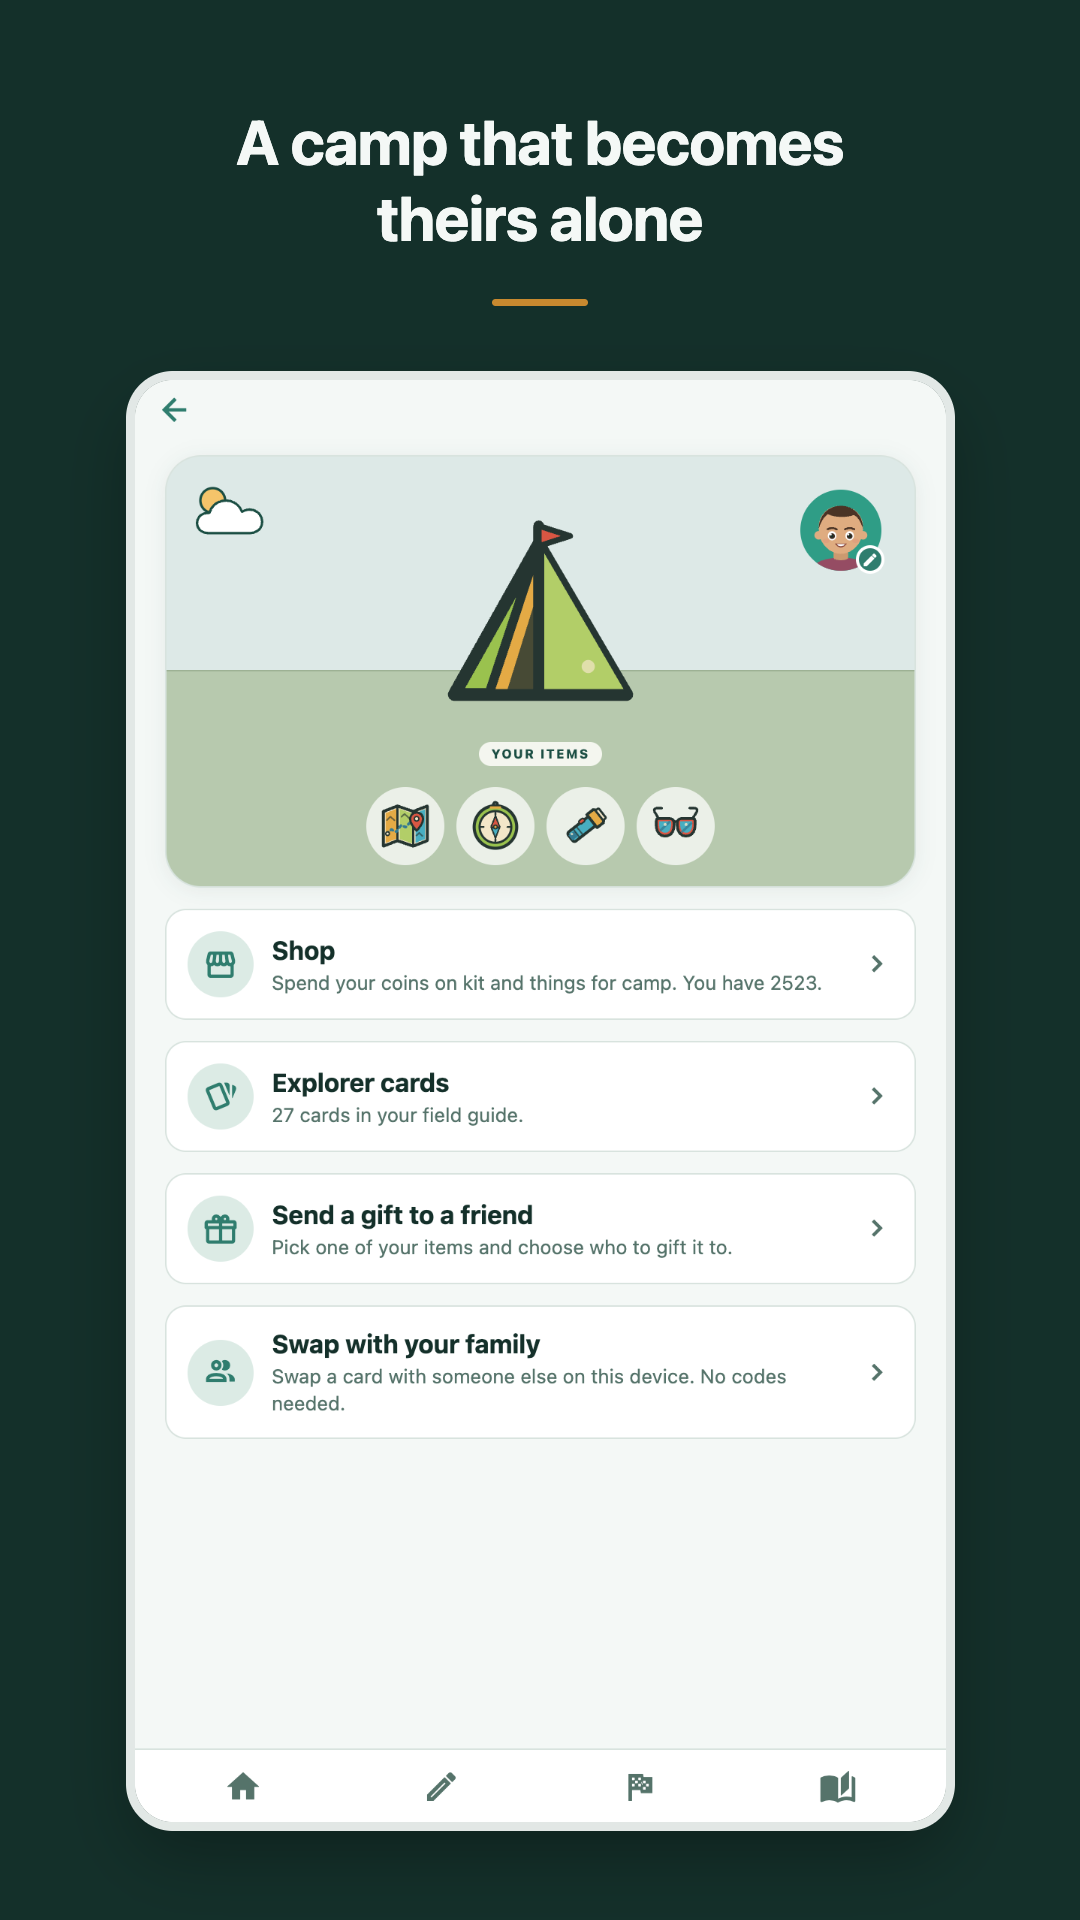
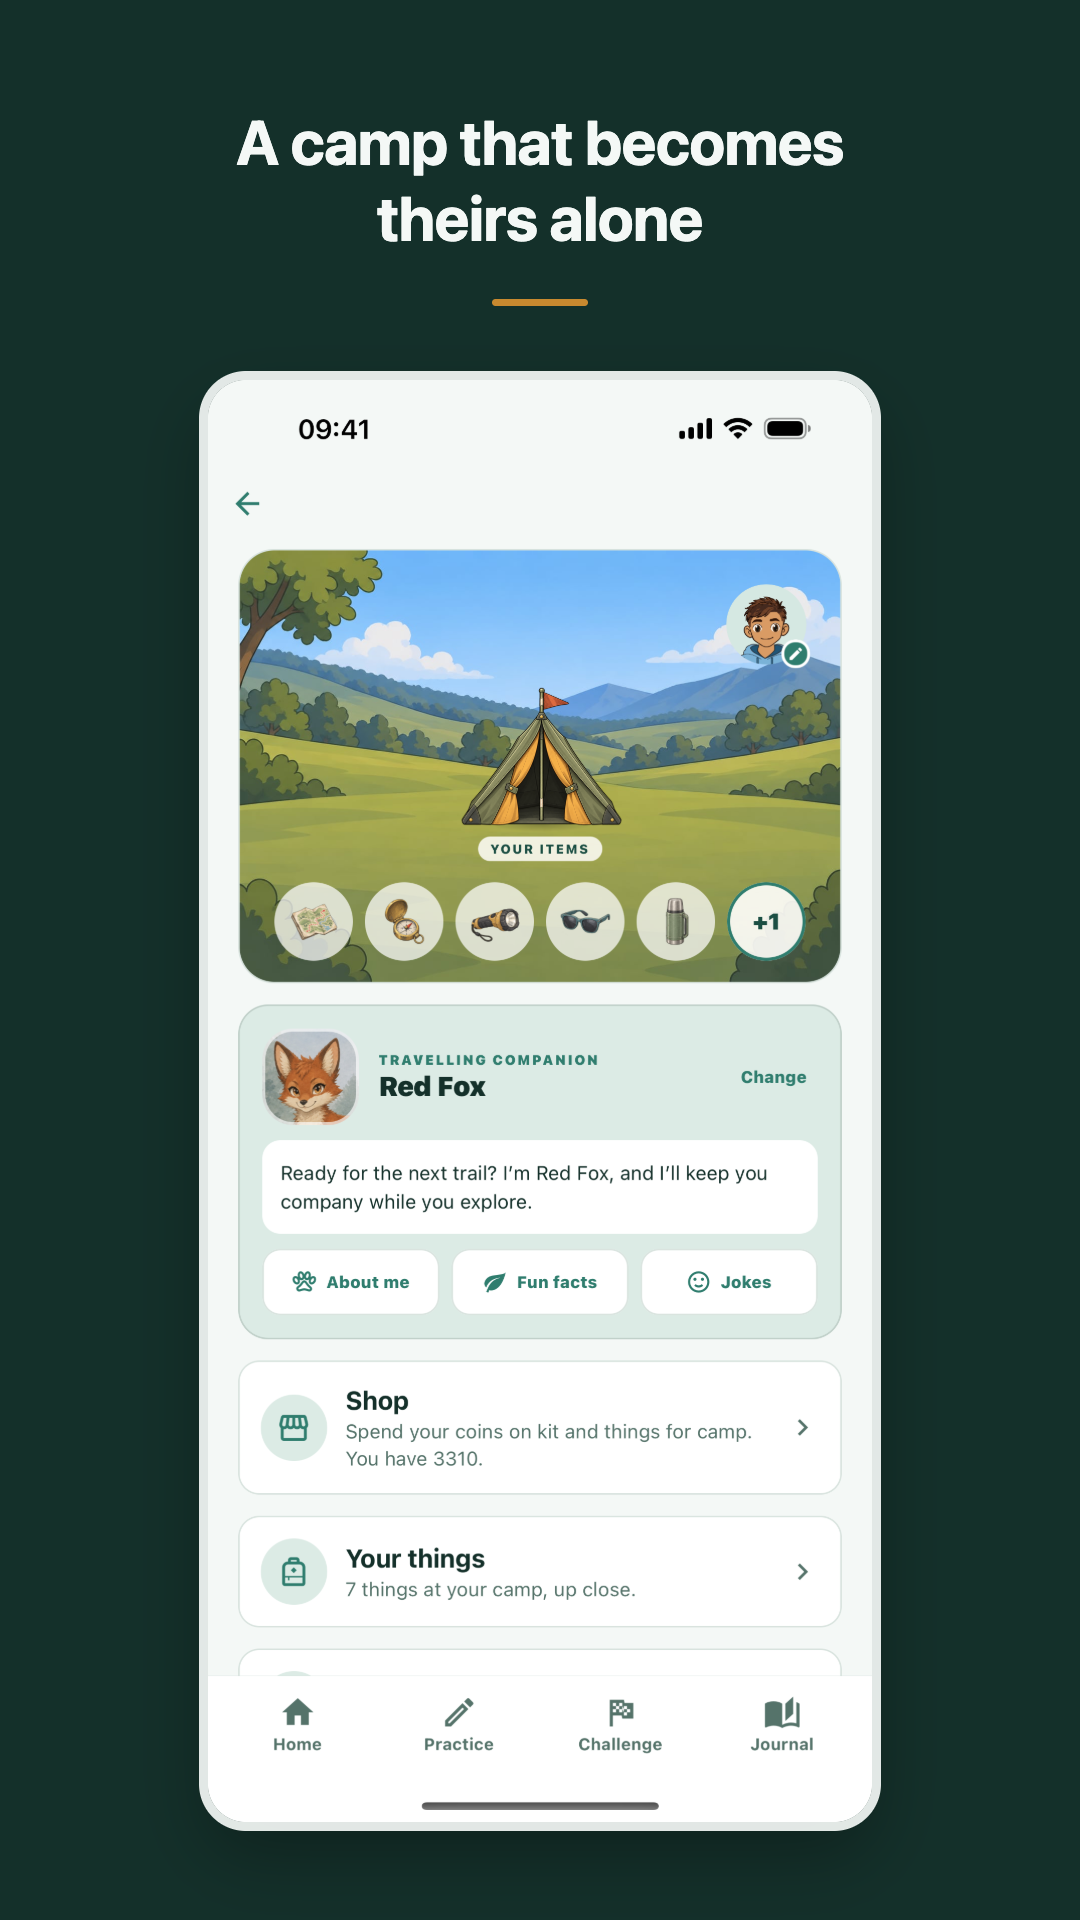
Update marketing screenshots for the approved 1.0.1 release
Replaces the 7 September set (old code-drawn tent, old rectangular
subject cards) with images composited from the App Store screenshots
already submitted and approved for 1.0.1: the redrawn layered avatars,
the illustrated day campsite, repainted camp items and Red Fox as the
travelling companion.

2-cards.png's alt text named four specific animals that no longer match
what the new image shows (Red Fox/Jay/Hedgehog/Tawny Owl -> Red
Squirrel/Pine Marten/Green Woodpecker/Scottish Wildcat); corrected.

diff --git a/index.html b/index.html
@@ -103,7 +103,7 @@
       </figure>
       <figure>
         <a href="/images/2-cards.png" aria-label="View the wildlife cards to discover and swap screenshot at full size">
-          <img src="/images/2-cards.png" width="1080" height="1920" alt="Sagito’s illustrated Red Fox, Jay, Hedgehog and Tawny Owl cards, with options to choose a companion." decoding="async">
+          <img src="/images/2-cards.png" width="1080" height="1920" alt="Sagito’s illustrated Red Squirrel, Pine Marten, Green Woodpecker and Scottish Wildcat cards, with options to choose a companion." decoding="async">
         </a>
         <figcaption>Wildlife cards to discover and swap</figcaption>
       </figure>
